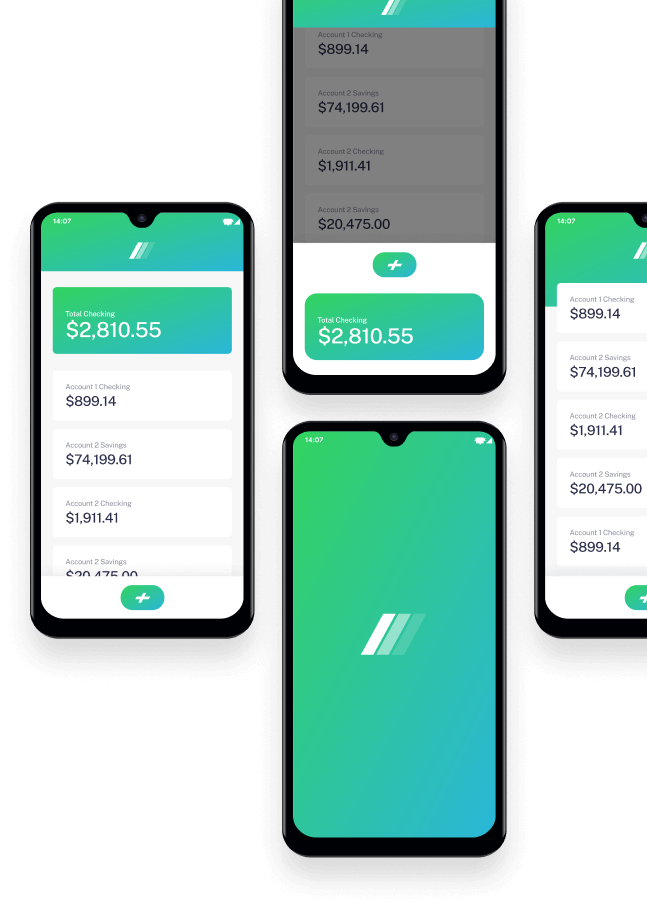
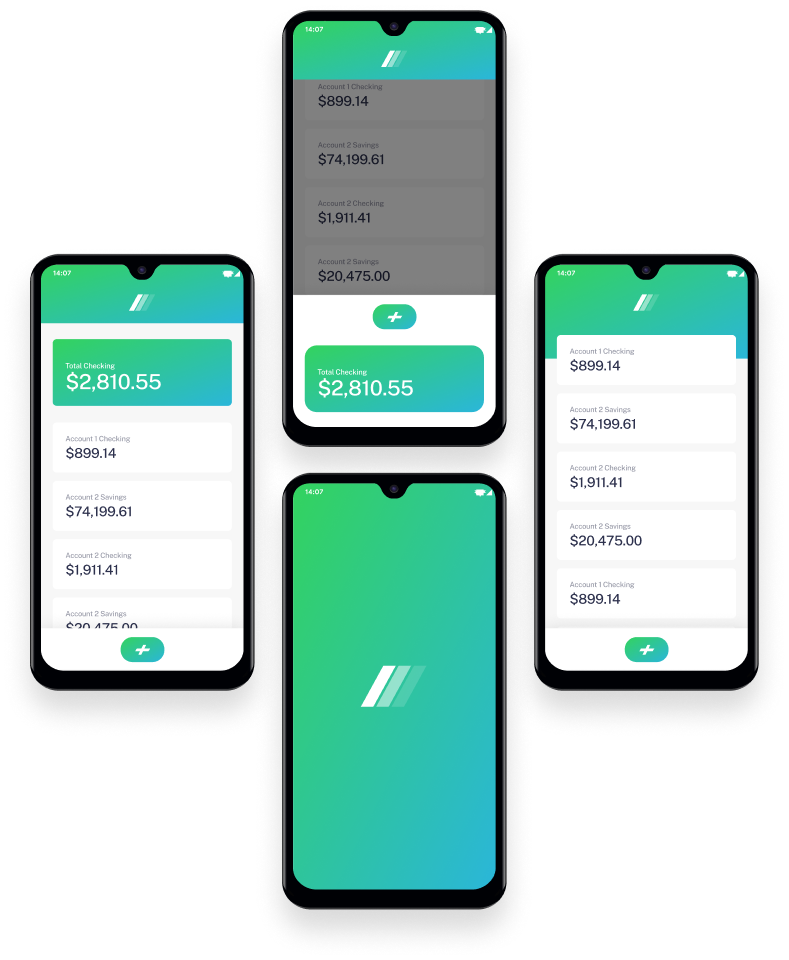
change phones images

diff --git a/css/style.css b/css/style.css
@@ -151,7 +151,7 @@ img {
 .intro_img {
   position: absolute;
   top: -80px;
-  right: calc(50% - 760px);
+  right: calc(50% - 900px);
 }
 .advantages {
   padding-top: 95px;
